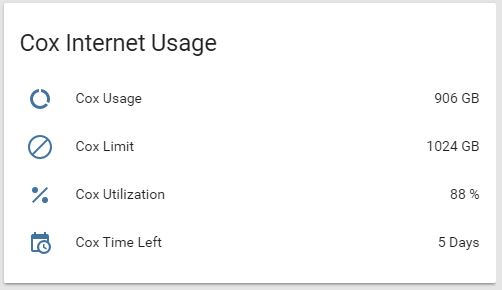
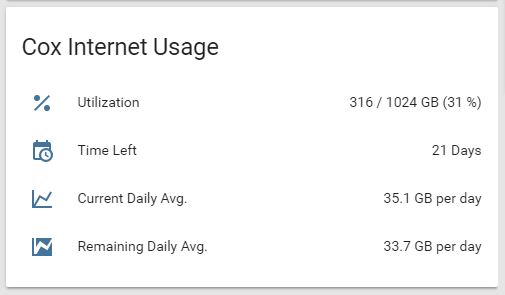
JSON to file changes

diff --git a/cox_usage.py b/cox_usage.py
@@ -7,6 +7,7 @@
 # Original Author : Rick Rocklin
 # Original Date   : 10/02/2017
 #
+# 10/17/2017: Output to file
 import mechanize  
 from bs4 import BeautifulSoup
 import json
@@ -18,6 +19,7 @@ stats_url = "https://www.cox.com/internet/mydatausage.cox"
 #Your cox user account (e.g. username@cox.net) and password
 cox_user = "username"
 cox_pass = "password"
+json_file = "/home/homeassistant/.homeassistant/cox_usage.json"
  
 br = mechanize.Browser()
 br.set_handle_robots(False)
@@ -43,5 +45,6 @@ for scripts in soup.head.findAll("script", type="text/javascript"):
         jsonValue = '{%s}' % (scripts.text.split('{', 1)[1].rsplit('}', 1)[0],)
         #Load into json
         value = json.loads(jsonValue)
-        #Print pretty json
-        print json.dumps(value, indent=4, sort_keys=True)
+        #Print JSON to file
+        with open(json_file, 'w+') as outfile:
+            json.dump(value, outfile, sort_keys=True)

diff --git a/README.md b/README.md
@@ -4,46 +4,111 @@ Script designed to get Cox Communications data usage into a JSON format for Home
 
 Configuration
 ---------
-Modify the username and password variables to match your Cox main account.
+Modify the `username` and `password` variables to match your Cox main account. Update the `json_file` variable if required.
+
+Put `cox_usage.py` somewhere inside your Home Assistant configuration directory.
 
 ```
 cox_user = "username"
 cox_pass = "password"
+json_file = "/home/homeassistant/.homeassistant/cox_usage.json"
 ```
-
-Usage Examples
+![Alt text](/img/HA_Example.JPG?raw=true)
+Automation
+-----
+```
+automation:
+  - alias: Query Cox Data Usage
+    trigger:
+      platform: time
+      minutes: '/60'
+      seconds: 00
+    action:
+      service: shell_command.query_cox_data_usage
+```
+Shell Command Component
+-----
+```
+shell_command:
+  query_cox_data_usage: 'python /home/homeassistant/.homeassistant/cox_usage.py'
+```
+Sensor Component
 -----
 ```
 sensor:
-  - platform: command_line
-    name: Cox Usage
-    command: "python /home/pi/cox_usage.py"
-    unit_of_measurement: "GB"
-    value_template: '{{value_json.dumUsage}}'
-    scan_interval: 3600
-    
-  - platform: command_line
-    name: Cox Limit
-    command: "python /home/pi/cox_usage.py"
-    unit_of_measurement: "GB"
-    value_template: '{{value_json.dumLimit}}'
-    scan_interval: 3600
-    
-  - platform: command_line
+  - platform: file
     name: Cox Utilization
-    command: "python /home/pi/cox_usage.py"
-    unit_of_measurement: "%"
-    value_template: '{{value_json.dumUtilization}}'
-    scan_interval: 3600
-    
-  - platform: command_line
-    name: Cox Days Left
-    command: "python /home/pi/cox_usage.py"
-    unit_of_measurement: "Days"
-    value_template: '{{value_json.dumDaysLeft}}'
-    scan_interval: 3600
+    file_path: /home/homeassistant/.homeassistant/cox_usage.json
+    value_template: >
+      {% if value_json is defined %}
+        {% if value_json.dumUsage | int == 0 and value_json.dumLimit | int == 0 and value_json.dumUtilization | int == 0 %}
+          stats unavailable
+        {% else %}
+          {{ value_json.dumUsage | int }} / {{ value_json.dumLimit | int }} GB ({{ value_json.dumUtilization | int }} %)
+        {% endif %}
+      {% else %}
+        undefined
+      {% endif %}
+
+  - platform: file
+    name: Cox Time Left
+    file_path: /home/homeassistant/.homeassistant/cox_usage.json
+    value_template: >
+      {% if value_json is defined %}
+        {% if value_json.dumDaysLeft is defined %}
+          {{ value_json.dumDaysLeft | int }} Days
+        {% else %}
+          unknown
+        {% endif %}
+      {% else %}
+        undefined
+      {% endif %}
+      
+  - platform: file
+    name: Cox Avg GB Current
+    file_path: /home/homeassistant/.homeassistant/cox_usage.json
+    value_template: >
+      {% if value_json is defined %}
+        {% if value_json.dumUsage | int == 0 and value_json.dumDaysLeft | int == 0 %}
+          stats unavailable
+        {% else %}
+          {{ (float(value_json.dumUsage) / (30 - float(value_json.dumDaysLeft))) | round(1) }} GB per day
+        {% endif %}
+      {% else %}
+        undefined
+      {% endif %}
+      
+  - platform: file
+    name: Cox Avg GB Remaining
+    file_path: /home/homeassistant/.homeassistant/cox_usage.json
+    value_template: >
+      {% if value_json is defined %}
+        {% if value_json.dumLimit | int == 0 and value_json.dumUsage | int == 0 and value_json.dumDaysLeft | int == 0 %}
+          stats unavailable
+        {% else %}
+          {{ ((float(value_json.dumLimit) - float(value_json.dumUsage)) / float(value_json.dumDaysLeft)) | round(1) }} GB per day
+        {% endif %}
+      {% else %}
+        undefined
+      {% endif %}
 ```
-![Alt text](/img/HA_Example.JPG?raw=true)
+Customize
+-----
+```
+customize:
+    sensor.cox_utilization:
+      icon: mdi:percent
+      friendly_name: Utilization
+    sensor.cox_time_left:
+      icon: mdi:calendar-clock
+      friendly_name: Time Left
+    sensor.cox_avg_gb_current:
+      icon: mdi:chart-line
+      friendly_name: Current Daily Avg.
+    sensor.cox_avg_gb_remaining:
+      icon: mdi:chart-line-stacked
+      friendly_name: Remaining Daily Avg.
+```
 
 Required dependencies
 -----
